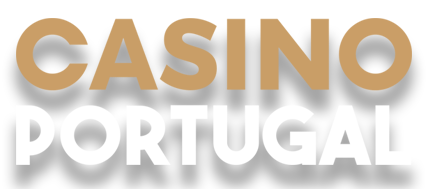
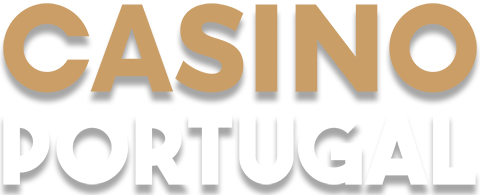
ref #116: Nova versão da landing page.

diff --git a/resources/views/portal/wellcome-page.blade.php b/resources/views/portal/wellcome-page.blade.php
@@ -3,7 +3,7 @@
 <head>
     <meta http-equiv="Content-Type" content="text/html; charset=UTF-8" />
 
-    <meta name="description" content="Casino Portugal, aposte no que é nosso.Apostas desportivas e de casino online" />
+    <meta name="description" content="Casino Portugal, aposte no que é nosso. Apostas desportivas e de casino online" />
     <meta name="keywords" content="european club soccer betting, european club soccer odds, champions league betting, champions league soccer odds, champions league betting line, champions league point spread, sports betting, online betting, online poker, online casino, sport betting, live sports betting, bet and win,  online football, bet online, soccer bets, champions league, barclays premier league, football betting site, slot machines, vegas slots, free spins, jackpot slots" />
 
     <title>Casino Portugal - Apostas desportivas e jogos de Casino online</title>
@@ -32,8 +32,8 @@
             background: #101928 url(/assets/portal/img/demo/casino-portugal.jpg);
             background-size: cover;
             -webkit-box-shadow: inset 0 0 300px rgba(0,0,0,0.5);
-            -moz-box-shadow: inset 0 0 300px rgba(0,0,0,0.5);
-            box-shadow: inset 0 0 300px rgba(0,0,0,0.5);
+               -moz-box-shadow: inset 0 0 300px rgba(0,0,0,0.5);
+                    box-shadow: inset 0 0 300px rgba(0,0,0,0.5);
         }
         a,
         a:link,
@@ -69,8 +69,11 @@
             margin: -160px 0 0 -400px;
         }
         #coming-soon h1{
+            font-family: "Exo 2", sans-serif;
             text-align: center;
-            font-size: 35px;
+            font-size: 51px;
+            font-style: italic;
+            color: #ffffff;
         }
         #coming-soon img{
             clear: both;
@@ -101,14 +104,14 @@
             float: left;
             border: 0;
             -webkit-border-radius: 6px;
-            -moz-border-radius: 6px;
-            border-radius: 6px;
+               -moz-border-radius: 6px;
+                    border-radius: 6px;
             padding: 0 10px;
             height: 35px;
         }
         #subscribe input[type="text"],
         #subscribe input[type="email"]{
-            color: #666666;
+            color: #999999;
             margin: 0 4px 0 0;
             width: 370px;
             -webkit-box-shadow: inset 0 1px 1px rgba(0,0,0,0.3);
@@ -124,14 +127,14 @@
             background: -webkit-gradient(linear, left top, left bottom, from(#cae285), to(#679A01));
             background: -moz-linear-gradient(top,  #cae285,  #679A01);
             -webkit-box-shadow: inset 0px 1px 2px rgba(255,255,255,1), 0 1px 1px rgba(0,0,0,0.3);
-            -moz-box-shadow: inset 0px 1px 2px rgba(255,255,255,1), 0 1px 1px rgba(0,0,0,0.3);
-            box-shadow: inset 0px 1px 2px rgba(255,255,255,1), 0 1px 1px rgba(0,0,0,0.3);
+               -moz-box-shadow: inset 0px 1px 2px rgba(255,255,255,1), 0 1px 1px rgba(0,0,0,0.3);
+                    box-shadow: inset 0px 1px 2px rgba(255,255,255,1), 0 1px 1px rgba(0,0,0,0.3);
         }
         #subscribe input[type="submit"]:hover{
             cursor: pointer;
             -webkit-box-shadow: inset 0px 1px 2px rgba(255,255,255,1), 0 1px 1px rgba(0,0,0,0.3), 0 0 5px rgba(255,255,190,0.5);
-            -moz-box-shadow: inset 0px 1px 2px rgba(255,255,255,1), 0 1px 1px rgba(0,0,0,0.3), 0 0 5px rgba(255,255,190,0.5);
-            box-shadow: inset 0px 1px 2px rgba(255,255,255,1), 0 1px 1px rgba(0,0,0,0.3), 0 0 5px rgba(255,255,190,0.5);
+               -moz-box-shadow: inset 0px 1px 2px rgba(255,255,255,1), 0 1px 1px rgba(0,0,0,0.3), 0 0 5px rgba(255,255,190,0.5);
+                    box-shadow: inset 0px 1px 2px rgba(255,255,255,1), 0 1px 1px rgba(0,0,0,0.3), 0 0 5px rgba(255,255,190,0.5);
         }
         #subscribe input[type="submit"]:active{
             cursor: pointer;
@@ -145,6 +148,7 @@
             -moz-box-shadow: inset 0 0 0 transparent, inset 0 0 0 transparent;
             box-shadow: inset 0 0 0 transparent,inset 0 0 0 transparent;
         }
+
         .exo{
             font-family: "Exo 2", sans-serif;
         }
@@ -162,16 +166,17 @@
 <body>
 
 <div id="coming-soon">
-    <div id="logo"><img src="/assets/portal/img/demo/casino-portugal.png" width="428" height="189" alt=""/>
+    <div id="logo"><img src="/assets/portal/img/demo/casino-portugal.png" width="480" height="195" alt=""/>
     </div>
-    <h1 class="exo">Aposte em Portugal</h1>
+    <h1 class="exo"><br>EMOÇÃO PELO JOGO!</h1>
 
-    <p>Um projecto 100% português, criado por apostadores, para apostadores.</p>
+	<p>Operador 100% português, criado por apostadores, para apostadores.*</p>
 
     @if($msg === '')
         {!! Form::open(array('route' => array('bem-vindo'), 'autocomplete' => 'off')) !!}
         <div id="subscribe">
-            <input type="text" name="email" id="email" placeholder="insira o seu email para receber mais notícias...">
+            <input type="text" name="email" id="email" placeholder="insira o seu email para receber mais novidades..."
+                value="{{$email}}">
             <input type="submit" value="Enviar">
             <div class="clear"></div>
             @if (isset($error))
@@ -180,10 +185,15 @@
         </div>
         {!! Form::close() !!}
     @else
-        <p>Guardamos o email para podermos enviar mais notícias.</p>
+        <p>Guardamos o email para podermos enviar mais novidades.</p>
     @endif
 
-    <a title="SFP Online S.A. © 2017" class="center">SFP Online S.A. © 2017. Todos os direitos reservados.</a>
+    <p>&nbsp;</p>
+    <p>&nbsp;</p>
+    <p>&nbsp;</p>
+    <p><a title="SFP Online S.A. © 2017" class="center">* Brevemente disponível! Estamos em processo de licenciamento junto do<br>
+      SRIJ – Serviço de Regulação e Inspecção de Jogos.<br>
+      <br> SFP Online S.A. © 2017. Todos os direitos reservados.</a></p>
 
 </div>
 

diff --git a/app/Http/Controllers/Portal/HomeController.php b/app/Http/Controllers/Portal/HomeController.php
@@ -51,6 +51,7 @@ class HomeController extends Controller
     {
         $msg = '';
         $error = null;
+        $email = $this->request->get('email', '');
         if ($this->request->isMethod('POST')) {
             try {
                 $validator = Validator::make($this->request->all(), [
@@ -73,6 +74,6 @@ class HomeController extends Controller
                 $error = $e->getMessage();
             }
         }
-        return view('portal.wellcome-page', compact('msg', 'error'));
+        return view('portal.wellcome-page', compact('msg', 'error', 'email'));
     }
 }
